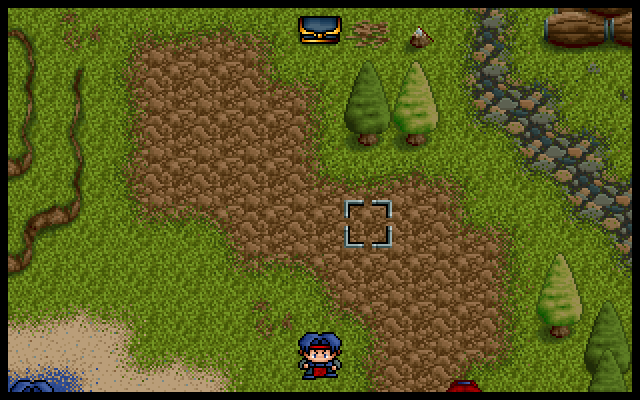
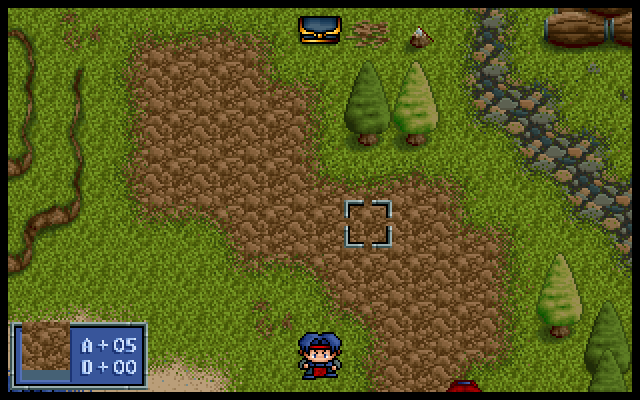
remake: correct native battle HUD viewport base

Changed region(s): [[0.0, 0.78, 0.25, 0.99]]

diff --git a/remake/internal/indexedmap/frame_test.go b/remake/internal/indexedmap/frame_test.go
@@ -116,8 +116,8 @@ func TestComposeFrameMode6MutatesBetweenTerrainAndForegroundAtomically(t *testin
 }
 
 func TestComposeNativeFrameBindsRecoveredHUDInsteadOfCallback(t *testing.T) {
-	// The native work pointer is 0x8088, so the 192-row viewport reaches
-	// through row 319 even though the HUD itself occupies the final 200 rows.
+	// 0x11cfa passes work+0x8088 to 0x1acf3. The HUD offsets are relative to
+	// that pointer and the following viewport copy uses the same base.
 	work := make([]byte, workStride*320)
 	vga := make([]byte, NativeMapVGASize)
 	terrain := bank(2, 0)
@@ -149,13 +149,16 @@ func TestComposeNativeFrameBindsRecoveredHUDInsteadOfCallback(t *testing.T) {
 		t.Fatal(err)
 	}
 	layout, _ := fdicon.NativeMapHUDLayoutFor(136, workStride)
-	if work[layout.Frame] != 0x5a || work[layout.Terrain] != 0x66 || work[layout.Unit] != 0x77 || work[layout.HP] != 0x70 {
-		t.Fatalf("native HUD missing from work: %#x/%#x/%#x/%#x", work[layout.Frame], work[layout.Terrain], work[layout.Unit], work[layout.HP])
+	if work[workBase+layout.Frame] != 0x5a ||
+		work[workBase+layout.Terrain] != 0x66 ||
+		work[workBase+layout.Unit] != 0x77 ||
+		work[workBase+layout.HP] != 0x70 {
+		t.Fatalf("native HUD missing from viewport-relative work: %#x/%#x/%#x/%#x",
+			work[workBase+layout.Frame], work[workBase+layout.Terrain],
+			work[workBase+layout.Unit], work[workBase+layout.HP])
 	}
-	// The source viewport starts at workBase=(x=72,y=72); the HUD panel at
-	// anchor 136 lands at source-relative (64,85), then 0x11cac places the
-	// 312x192 viewport at VGA (4,4).
-	if got := vga[(85+4)*viewWidth+64+4]; got != 0x5a {
+	// 0x11eb0 places the same viewport-relative HUD position at VGA (4,4).
+	if got := vga[(157+4)*viewWidth+136+4]; got != 0x5a {
 		t.Fatalf("native HUD did not reach viewport: %#x", got)
 	}
 }

diff --git a/remake/cmd/fd2/main.go b/remake/cmd/fd2/main.go
@@ -6133,10 +6133,10 @@ func (g *Game) drawPhaseBanner(screen *ebiten.Image) {
 	g.font.Draw(screen, g.banner, (float64(logicalW)-w)/2, float64(logicalH)/2-24, 2.2, c)
 }
 
-// drawUnitHUD 是目前可玩的 map-HUD approximation，復用 full-screen battle panel
-// 的 FDOTHER#5 LMI1 #22 frame。它不可宣稱等同原版 map HUD：native 0x1acf3 有
-// 獨立的 cursor-unit lookup、兩個 display gates、resource/digit pipeline 與 anchor
-// correction，尚未接入。AP/DP/MV 素材也未證實屬於此 native panel，故仍以文字補列。
+// drawUnitHUD 是 native full-frame admission 失敗時的 playable fallback，
+// 復用 full-screen battle panel 的 FDOTHER#5 LMI1 #22 frame。ch01 production
+// path 已由 ComposeNativeFrame 接入完整 0x1acf3 HUD；本函式不可再用來描述
+// native HUD 的完成度。AP/DP/MV 素材也未證實屬於 #22，故 fallback 仍以文字補列。
 func (g *Game) drawUnitHUD(screen *ebiten.Image, u *battle.Unit) {
 	nm := u.Name
 	if nm == "" {

diff --git a/remake/internal/indexedmap/frame.go b/remake/internal/indexedmap/frame.go
@@ -341,7 +341,13 @@ func BuildNativeTerrainCells(tiles []int, blitModes []byte) ([]fdicon.NativeTerr
 // rejection keeps work/VGA unchanged through ComposeFrame's transaction.
 func ComposeNativeFrame(work, vga []byte, in NativeFrameInput) error {
 	return ComposeFrame(work, vga, in.Frame, func(dst []byte) error {
-		return BlitNativeMapHUD(in.Frames, in.HUDTerrain, in.HUDUnits, in.HUDCache, dst, in.HUD)
+		// 0x11cfa passes [0x53a49]+0x8088 to 0x1acf3, not the allocation
+		// base. HUD row/column offsets are therefore viewport-relative, just
+		// like the preceding 0x11eee terrain destination.
+		if len(dst) < workBase {
+			return errors.New("indexedmap: native HUD viewport base outside work buffer")
+		}
+		return BlitNativeMapHUD(in.Frames, in.HUDTerrain, in.HUDUnits, in.HUDCache, dst[workBase:], in.HUD)
 	})
 }
 

diff --git a/docs/knowledge-base/91-worklist.md b/docs/knowledge-base/91-worklist.md
@@ -762,7 +762,7 @@
 - [x] **native single-cell terrain compositor**：`Bank.BlitNativeTerrainCell` 組合 exact frame selector 與 FDFIELD `entry+3==0xff` raw／否則 LUT branch，regression 覆蓋兩支及 mode3 destination remap。camera-visible loop、LUT phase、foreground `0x129ec` 不在此 pure adapter 範圍。
 - [x] **native visible terrain pass**：`Bank.BlitNativeTerrainRegion` 以 raw FDFIELD cell、FDSHAP 4-byte control records、map origin／explicit LUT 做 `0x11eee` row-major visible region，bounds fail-closed、regression 覆蓋 raw/LUT cell order。正常 `0x11cac` ABI 已釘為 `(buffer+0x8088,456,13,8,camX,camY)`，其後 range→unit→foreground passes 仍分離。
 - [x] **native indexed viewport copy**：official IDA/Capstone 關閉 `0x11eb0` 為逐列 `memmove`；`0x11cac` 明確以 source `buffer+0x8088`／stride456、width312、height192 複製到 VGA `0xA0504`／stride320。regression 覆蓋 row stride、source/destination offset、4px border 與 fail-closed bounds；ch01 已接 Ebiten production presentation。
-- [~] **native terrain/unit map HUD (`0x1acf3`)**：它在 `0x11cac` 的 terrain/range/unit+foreground 後、viewport copy 前執行，且須 raw gates `0x51aab`、`0x51aac` 都非零。先以 `0x12e38(cursor)` 解 FDFIELD tile10/event-low5/FDSHAP control4，再以 `0x12c0d(cursor)` optional active-unit lookup；`NativeTerrainCursorInfoForCell` regression 固定前一 raw ABI。已釘住 control byte+1→`0x51a12/0x51a2a` 的 AP/DP 表，並由 `battle.Load` 以逐格 raw tile/control 接至戰鬥計算。layout 已收斂為 LMI1 #130（69×34）`buffer+stride*157+x`、terrain `+6`、AP `stride*8+0x2b`、DP `stride*19+0x2b`；`0x1aeb1` 依 table 值正負選 raw directory decimal #83/#84、取絕對值再走 native digits，兩 resource 的視覺語意仍不命名。`x` raw 初值1，已見條件改為0xf2或1。unit icon/HP resource、高階 global 名稱仍待。**撤回**把現行 map HUD 的 FDOTHER#5 full-screen battle frame 當 native equivalent 的說法；目前只保留可玩 approximation。
+- [~] **native terrain/unit map HUD (`0x1acf3`)**：它在 `0x11cac` 的 terrain/range/unit+foreground 後、viewport copy 前執行，且須 raw gates `0x51aab`、`0x51aac` 都非零。`BlitNativeMapHUD→ComposeNativeFrame→drawNativeMapFrame` 已把 panel、terrain、AP/DP、optional FDICON unit與HP依原順序接入ch01 production frame；#130、hex #0x83/#0x84、digit/overflow banks、persistent anchor與raw cycle均有resource/runtime regression。FDOTHER#5 full-screen #22只在native admission失敗時作playable fallback，不再代表ch01現況。此項仍為partial，因ch02+缺逐章view/gates/anchor來源、`0x12c0d` exact raw lookup predicate/order尚未閉合，且沒有原版DOSBox 320×200 HUD pixel oracle；高階global與resource artwork名稱仍不猜。
   - [x] HUD runtime provenance：data初值anchor=1、gateA/gateB=1；
     load `0x10010`由plaintext `0x30d2`覆寫gateA。anchor只由visible
     cursor row/column `[0x53abd]/[0x53ab9]`兩條branch改0xf2/1；doc14
@@ -780,7 +780,14 @@
     bounds合法，runtime錯誤fail-closed。其餘章節不套用這組值。
   - [x] codec boundary：#130／hex #0x83／#0x84 不走 `ParseLMI1` 的 `0x4e916` cell codec；native `0x1aeb1` 有 literal `mov ebx,0x83/0x84`，明確走 four-mode `0x4e63d`。`ParseLMI1FrameEntry`／`DecodeLMI1FrameResource` regression 驗證 geometry 69×34、6×7、6×5 及 transparent decode。撤回剛才將 hex immediate 誤改成 decimal #83/#84（44×12／45×12）的錯誤斷言。
   - [x] optional unit selector：`0x1ae4d` 以 raw `unit+2*12 + state` 選 FDICON，state=3 alias 1，並在 panel `stride*5+6` raw blit；HP `+0x40/+0x42` 經 `0x1875d` 畫至 `stride*21+9`（mode3）。`NativeMapHUDUnitFrameIndex` regression 保留 selector，不替 state 命名。
-  - [x] strict compositor layout：`NativeMapHUDLayoutFor(anchor,456)` 固定 frame／terrain／AP／DP／unit／HP 的六個 byte destinations，拒絕非 native stride 與 69-pixel frame 出 320-pixel viewport 的 anchor；留給後續 indexed renderer 組裝，未宣稱已接 Ebiten。
+  - [x] strict compositor layout／production bridge：`NativeMapHUDLayoutFor(anchor,456)` 固定 frame／terrain／AP／DP／unit／HP 的六個 byte destinations，拒絕非 native stride 與 69-pixel frame 出 320-pixel viewport 的 anchor；`BlitNativeMapHUD`已由`ComposeNativeFrame`接入Ebiten production full frame。此項不證明其他章節的raw runtime來源或DOSBox visual parity。
+  - [x] HUD viewport-base／原版位置 oracle：Docker Capstone固定
+    `0x11cfa`將`[0x53a49]+0x8088`與stride456傳入`0x1acf3`；舊adapter
+    錯把HUD offsets套在allocation base，測試也固定了錯位。`ComposeNativeFrame`
+    現改傳`work[0x8088:]`，HUD panel由同一source經`0x11eb0`落到VGA
+    `(anchor+4,161)`，並保留full-frame atomic failure。原版ch01錄影412秒
+    320×200 frame與重建remake artifact都直接顯示下緣HUD；same-state完整
+    pixel diff仍待。
 - [x] **native terrain renderer export bridge**：`export_engine_assets.py` 在帶 FDSHAP terrain resource 時輸出完整 `native_terrain_control` raw bytes 加既有 per-cell `native_tile_blit_modes`。map0 實測為 576 cell modes、1200 control bytes；因此 region adapter 不必把 normalized `cost` 當 native renderer input。
 - [x] **native terrain renderer runtime bridge**：`battle.Load` 以 serialized `native_tile_blit_modes` 驗證 exact map provenance，但依`0x4dbfc`將 live `State.NativeTileBlitModes`全填`0xff`；`native_terrain_control`維持原始資料。dimensions/cell count/control alignment/tile bounds任一失敗即fail-closed。舊版把archive zeroes直接當live renderer state、造成整張圖走LUT的斷言已撤回。
 - [x] **FDOTHER#3 LUT bank loader**：`fdother.ParseLUTBank`／`DecodeLUTResource` 嚴格解析 LMI1 directory 的 23×256-byte remap tables（非 UI LMI cell），fixture 與 player-provided archive regression 通過。現可把確證 LUT 交給 `BlitLUT`；map selector、palette timing、renderer layer 仍不猜接。

diff --git a/docs/knowledge-base/56-fd2-remake-sdd.md b/docs/knowledge-base/56-fd2-remake-sdd.md
@@ -1066,6 +1066,19 @@ SDD 通過後按以下順序重審，不先補 renderer 猜測：
 
    Presentation bridge (strict gate): `drawNativeMapHUD` converts the verified 456-stride indexed buffer to a 320×200 paletted Ebiten image only when `NativeMapHUDRuntimeState`, selector cache/cycle and every selected-unit raw admission byte are present. It now draws panel/terrain/AP/DP plus the proven unit icon and `+0x40/+0x42` HP path together. The former hardcoded `DisplayGateA=true, DisplayGateB=true, AnchorX=1` partial path has been removed because native load can overwrite gate A. Missing provenance falls back before any native drawing. `battle_ch01` now materializes the exact player-save view `(camera 1,13; cursor 8,17; visible 7,4)` and HUD raw bytes `(1,1,1)` through editable campaign fields; other chapters remain unmaterialized pending chapter-specific evidence, so this does not claim whole-campaign visual parity.
 
+   HUD pointer-base correction (2026-07-28): direct Capstone at
+   `0x11cfa..0x11d0a` proves the caller pushes stride `0x1c8` and
+   `[0x53a49]+0x8088` into `0x1acf3`. Therefore every recovered HUD offset,
+   including row157, is relative to the same viewport pointer used by terrain
+   and the later `0x11eb0` copy. The earlier production adapter passed the
+   allocation base, causing the HUD to land 72 rows／72 bytes away and disappear
+   from the final bottom edge; its regression had encoded that wrong coordinate.
+   `ComposeNativeFrame` now passes `work[0x8088:]`, keeps failure atomicity, and
+   verifies the panel reaches VGA `(anchor+4,161)`. The original-video
+   [HUD oracle](../figures/native-map-ch01-original-video.png) and rebuilt
+   [remake frame](../figures/native-map-ch01-remake.png) both show the panel at
+   the lower edge. They do not yet constitute a same-state full-frame pixel diff.
+
    Production steady-frame and drawable-target slice (2026-07-28): ch01 now materializes the explicitly sourced persistent selector one, uses the original party-first/initial-group append constructor order, and consumes regenerated FDFIELD/FDSHAP raw map fields. Runtime composition byte+3 is initialized to `0xff` exactly as `0x4dbfc`; using serialized zeroes was an incorrect assertion that forced the whole steady map through the LUT branch and visibly washed out the palette. `nativeBIOSClock` supplies a battle-local signed BIOS low word at the PIT rate; one Update corresponds to the one `0x1297d` call at `0x11cb7`, while terrain phase and the two independent BIOS-word latches consume the same sample. `drawNativeMapFrame` executes the proven interactive `0x11cac` pipeline and FDOTHER#1 descriptor 0 supplies the native steady cursor; the former white rectangle approximation is removed. Command target entry materializes the first-stage `0x14818` remaining-budget grid and writes `record+4+2`; selectors 2–5 remain in the same production indexed compositor and use their exact ordered FDOTHER#1 call tables. Cancel and successful effect exit perform the `0x4dbfc` reset and restore selector one. Selector 6 is a separate field mutation and 7+ have no `0x122dc` draw table, so they still fall back; target flash and indexed effects remain incomplete.
 
    Palette assertion correction: `FDOTHER#0` is a VGA DAC palette and index zero is not globally transparent. `ParseVGAPalette` now returns 256 opaque entries; only blitter-specific adapters such as `RawCell.Paletted` clone the palette and make zero transparent when their native zero-source rule requires destination preservation. This prevents a full indexed VGA frame's four-pixel border from leaking the legacy renderer beneath it.

diff --git a/docs/knowledge-base/57-ui-evidence-matrix.md b/docs/knowledge-base/57-ui-evidence-matrix.md
@@ -11,7 +11,7 @@
 | UI-03 action menu | Docker Capstone `0x18890` + `0x18d8c`：↑0 attack、←1 spell、→2 item、↓3 wait/field interaction；native command grid每欄四列。item branch `0x1bbdc` 的compact兩欄四列input、`0x17eef/0x17fc0/0x184c0`完整 indexed compositor與12-frame三區clip schedule已有 Ebiten adapter；tracked item Enter transaction已接。`0x19953` 是另一 selector | partial | end-turn entry、indexed effect presentation、DOSBox visual diff與缺archive UX |
 | UI-04 target/range | `0x1cff0` + `0x149f8` 證實 command record `+3/+4/+6` 參與 target-candidate geometry；`0x1bbdc` item case 0 的 two-stage targets、observed type5–24 effect dispatch 已閉合。item entry materialize `row[+0x12]+2`；first selector return後grid reset且selector回1。type23 destination把literal target code6傳給`0x115b6`，不是global selector6；兩層取消都回item panel。remake已接tracked transaction、occupancy/class/race/29×20 cost/terrain gate | partial | native argument↔weapon min/max mapping、AOE/LOS、不可用目標灰化、indexed item/effect presentation；global selector6的production owner仍待 |
 | UI-05 dialog | dialog Draw 約 3590–3686；`dlgAdvance` 有 page/scroll state；ch01 original oracle `docs/figures/ch01-dialogue-original-dosbox.png` 固定左肖像下框、文字、page indicator | partial | 每種 upper/lower portrait anchor、control-code renderer、native clipping |
-| UI-06 HUD | native map HUD `0x1acf3` 已釘 display gates、LMI1 #130(69×34) at row157、terrain/AP/DP offsets（AP row8 col43；DP row19 col43）及依正負選 directory entry decimal #83/#84、取絕對值後 decimal-digit 的 raw path；remake 尚畫 full-screen #22 approximation | partial | #83/#84 artwork semantics、optional unit icon/HP resource、raw anchor globals 的高階語意、native asset/runtime adapter 與 320×200 ground truth |
+| UI-06 HUD | native map HUD `0x1acf3` 的 panel→terrain→AP→DP→optional unit icon→HP 已由 `BlitNativeMapHUD→ComposeNativeFrame` 接入 ch01 production full frame；display gates、persistent anchor、LMI1 #130／hex #0x83/#0x84、digit banks與FDICON selector均有 regression。`0x11cfa`證實HUD base是`work+0x8088`，修正後原版錄影與remake截圖都在下緣顯示panel。full-screen #22只在native admission失敗或尚未materialize章節作fallback | partial | ch02+逐章 view/gates/anchor provenance、`0x12c0d` exact raw lookup predicate/order、同一state的DOSBox/remake pixel diff；raw globals高階名稱仍不猜 |
 | UI-07 postbattle | `campInput` battle result 約 2394；campaign node 可表達 post node；`campaign_full` 30 戰 transition matrix 已逐列展開；ch24 handler `0x24df2` 已以 Docker Capstone/exporter 閉合 dialog idx6/7、PAN `(4,16)`→`(96,384)`、spawn group2=1、ACT75(slot70/pose2)，並接回 `town_ch25`；ch25 `0x24e80` 以 address+text-index dialogue override 閉合 scene2/3/4 branch、16-slot layout、ACT77–80，已接回 `town_ch26` | partial | 以原版 handler offset／DOSBox input 差分核對每章是否進 town/shop/rest/preparation/ending；ch06/ch07 等仍 fail-closed |
 | UI-08 town | `enterNode`/`campInput` 的 `town` branch 約 1584、2133 | partial | 原版 town menu、church/shop 入口與戰後 persistent timing |
 | UI-09 shop | buy/sell/equip/recipient 約 2256–2391 | partial | 商品 menu sprite、游標邊界、secret shop flag、原版 cancel semantics |

diff --git a/docs/knowledge-base/SESSION-HANDOFF-2026-07-06.md b/docs/knowledge-base/SESSION-HANDOFF-2026-07-06.md
@@ -1200,3 +1200,15 @@ slot6 active 條件、SPAWN2、兩段 PAN、800/200ms 與 FDTXT_003 #4 七句也
   foreground前清selector6 selected cell，僅full-frame成功才commit，並不
   猜接其仍未知的production owner。focused Docker/Xvfb
   `go test ./internal/indexedmap ./cmd/fd2 -count=1`通過。
+- 2026-07-28 HUD production-base correction：文件稽核先發現UI matrix仍把
+  ch01誤寫成只畫full-screen #22 approximation；實際
+  `BlitNativeMapHUD→ComposeNativeFrame`早已接入完整已證實subpasses。
+  但原版錄影frame oracle又揭露production截圖下緣沒有HUD。Docker-only
+  Capstone重讀`0x11cfa..0x11d0a`固定caller傳入
+  `[0x53a49]+0x8088`與stride456；舊adapter卻把row157等offset套在work
+  allocation base，連unit test都鎖住錯位。`ComposeNativeFrame`現傳
+  `work[0x8088:]`，regression驗work與VGA `(anchor+4,161)`位置，HUD重新
+  出現在左下角。新增原版錄影412秒
+  `docs/figures/native-map-ch01-original-video.png`，並以Docker/Xvfb重建
+  `native-map-ch01-remake.png`。兩者證實lower-edge placement，不宣稱
+  same-state pixel parity；ch02+ raw view/gates/anchor仍不可複製ch01值。
